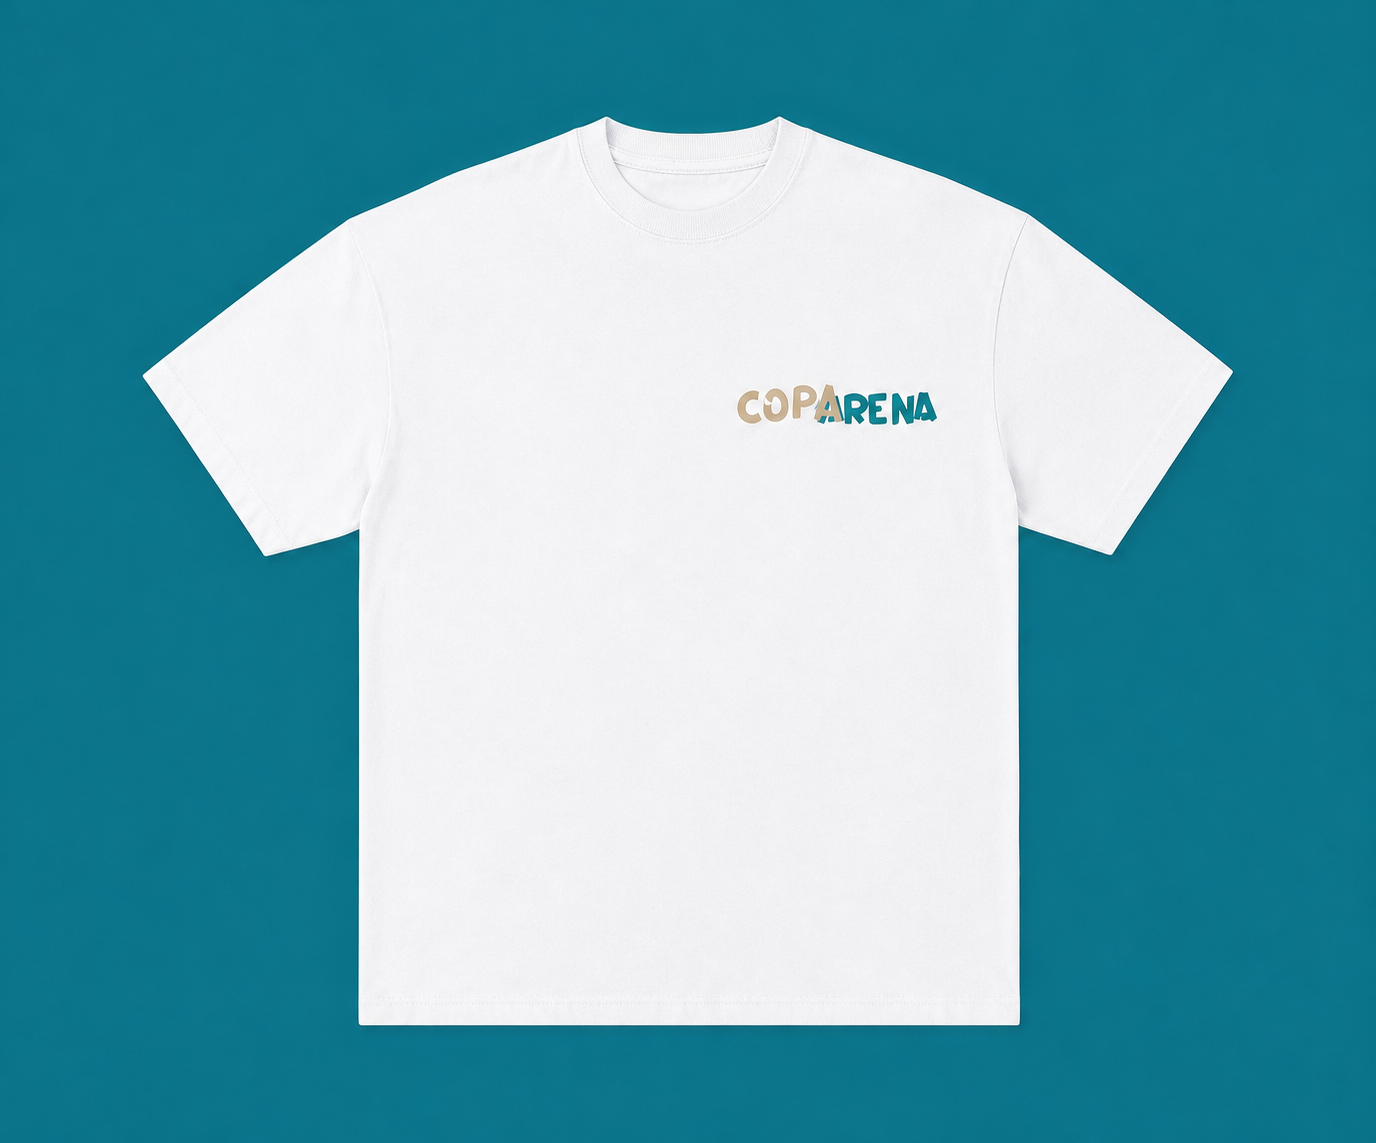
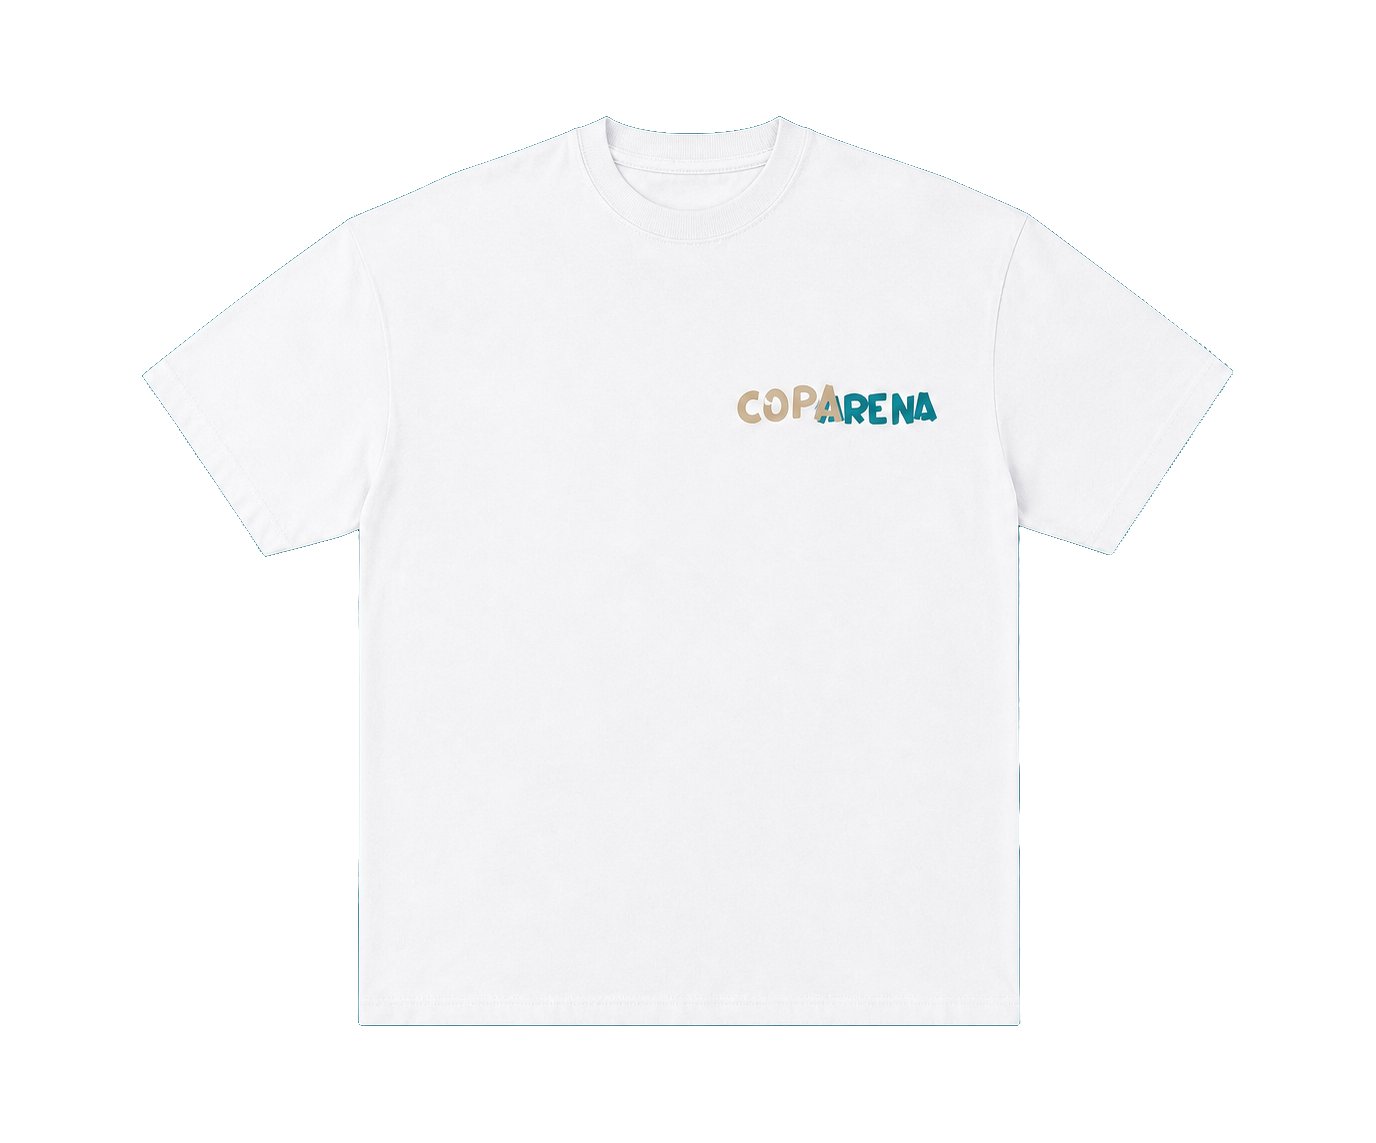
Quitar fondo de las fotos de camisetas y sus etiquetas de texto
Las fotos frontal/trasera ahora tienen fondo transparente (recorte por
color desde los bordes) para que se vea el fondo de la web, y se
elimina el rótulo "Delante"/"Detrás" que ya no hace falta.

diff --git a/src/styles/global.css b/src/styles/global.css
@@ -2034,13 +2034,6 @@ html.js .reveal.in-view {
   filter: drop-shadow(0 22px 24px rgba(16, 21, 22, 0.28));
 }
 
-.shirt-product-figure figcaption {
-  font-family: var(--font-display);
-  font-size: 0.85rem;
-  letter-spacing: 0.02em;
-  color: var(--sun);
-}
-
 .shirts-form-grid {
   display: grid;
   grid-template-columns: 1.2fr 0.7fr 0.55fr;